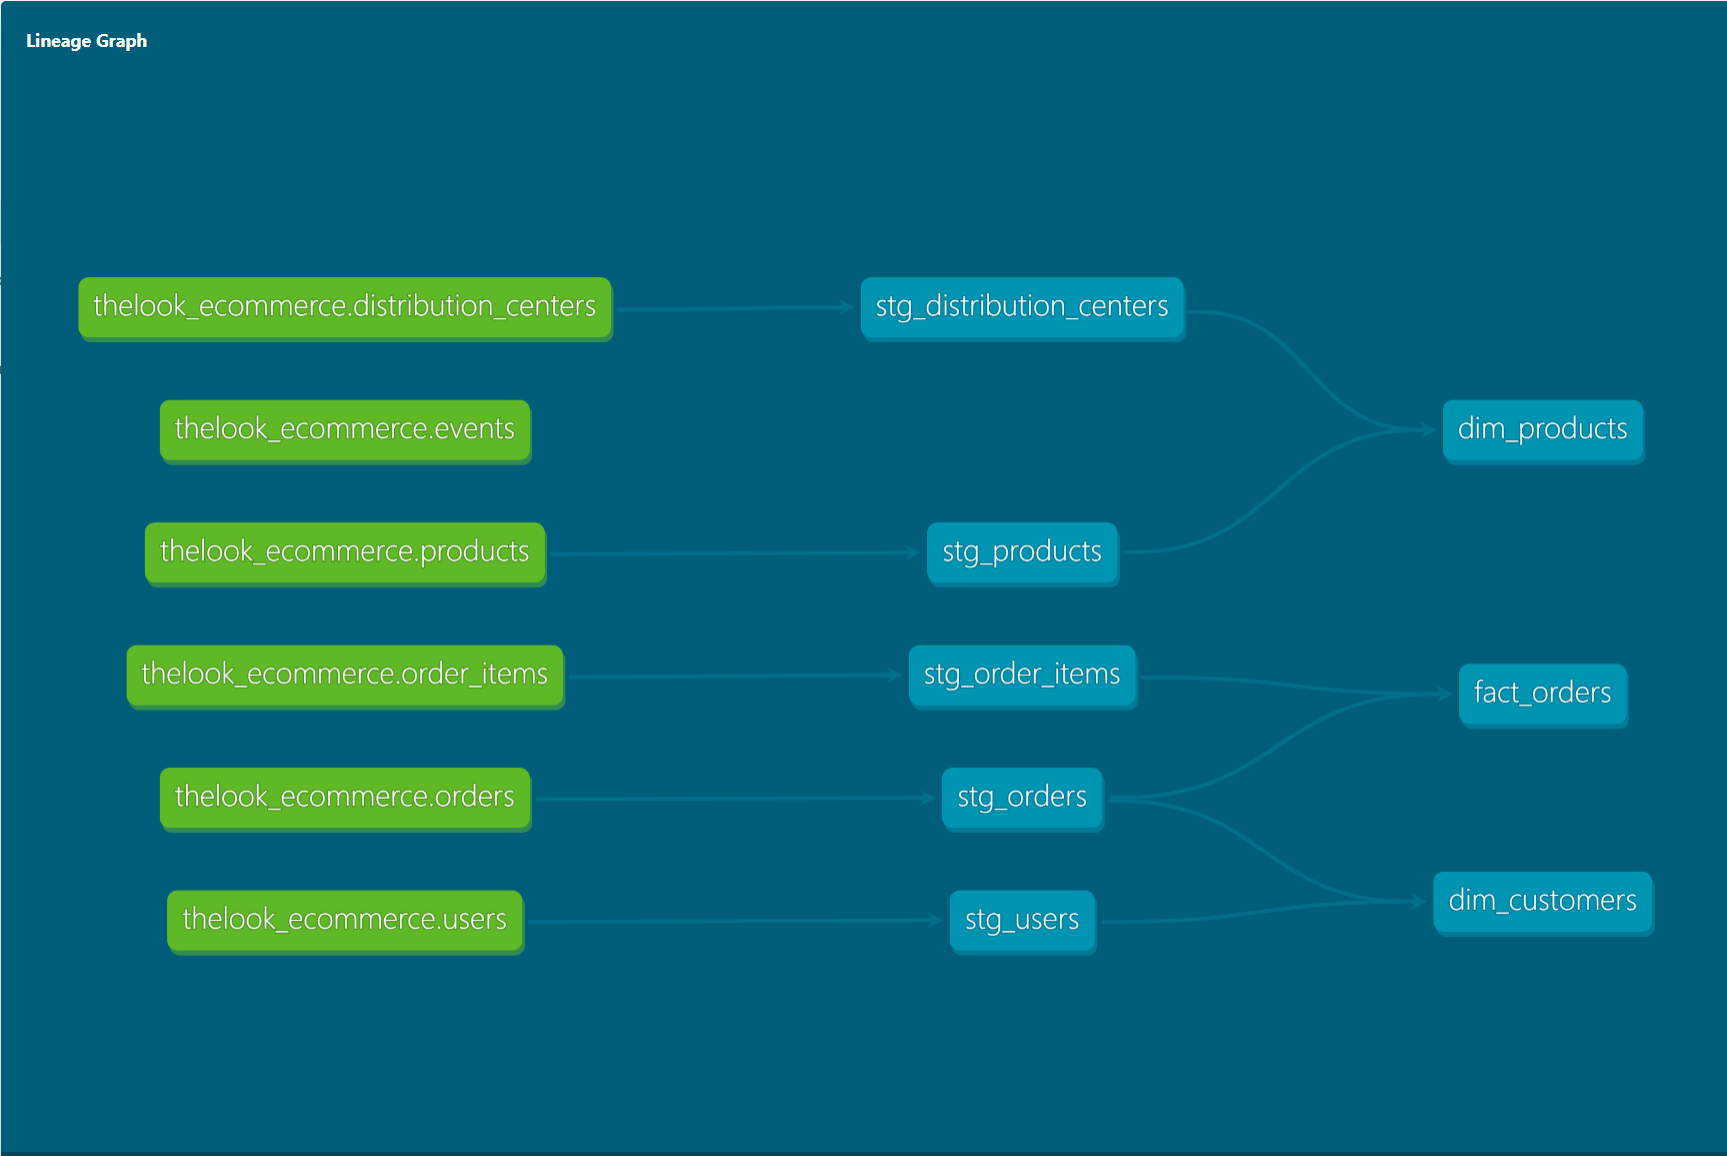
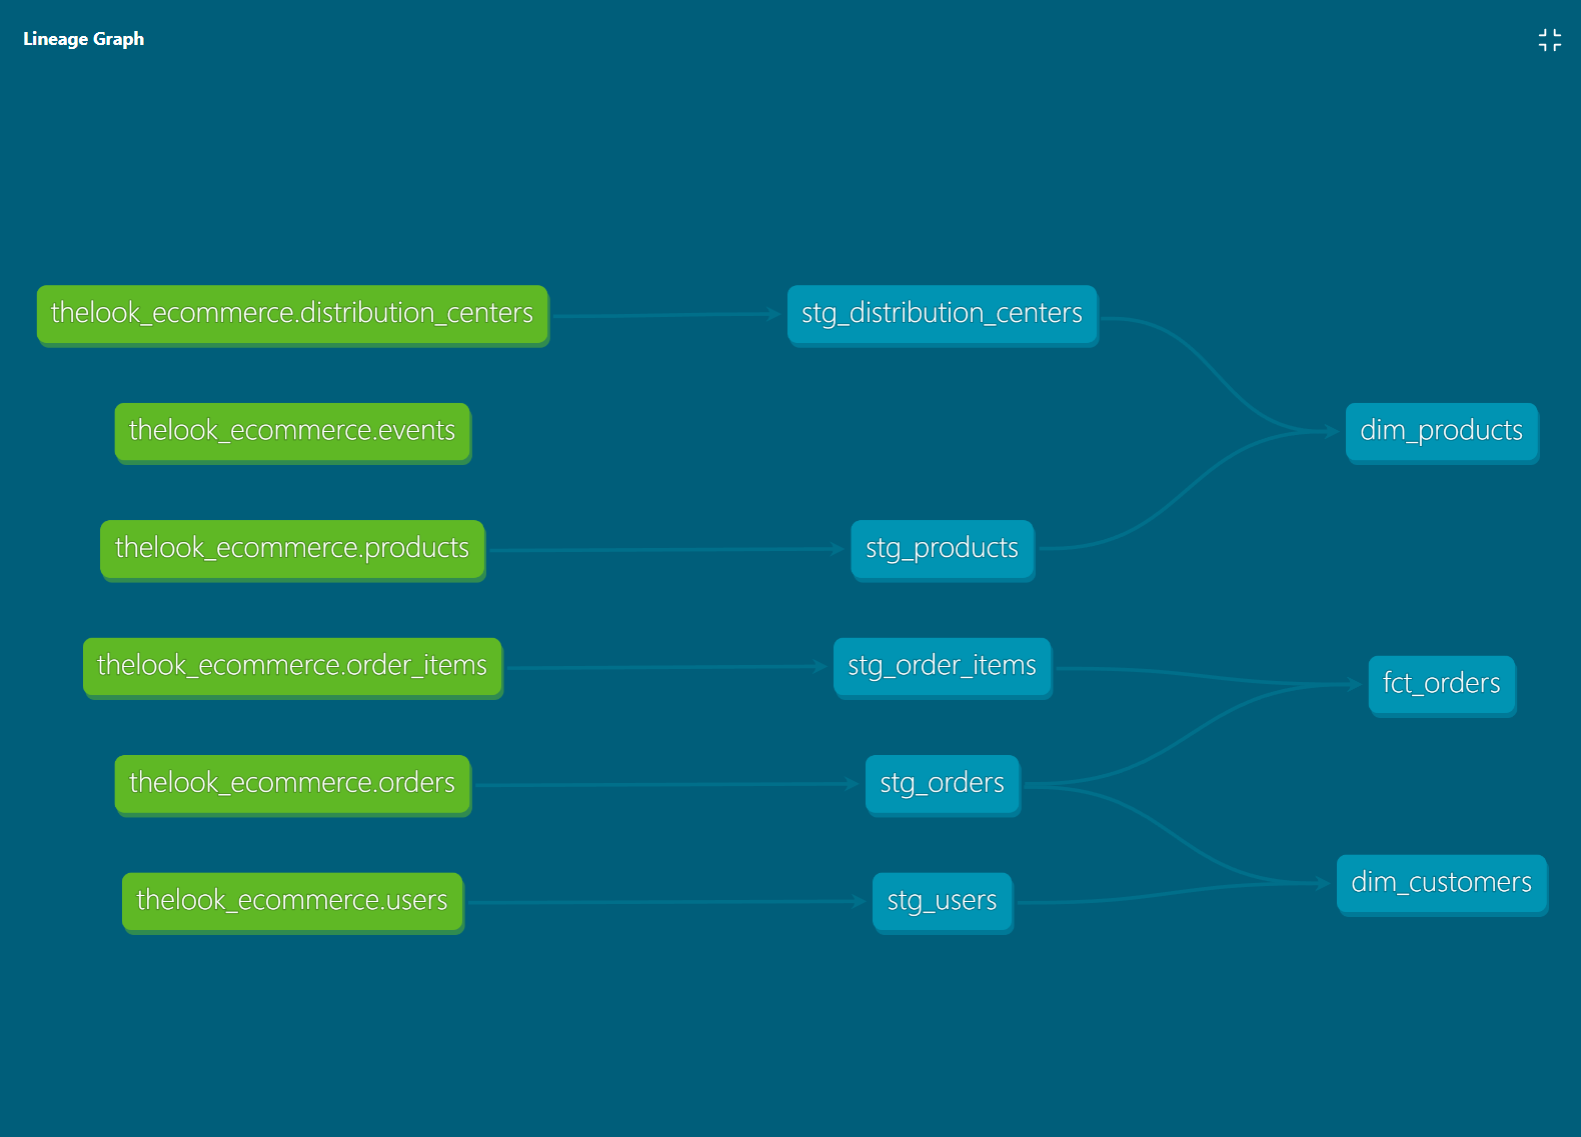
Fix fact model naming and update dbt test syntax; replace lineage graph with updated model naming

diff --git a/README.md b/README.md
@@ -1,40 +1,39 @@
-# dbt E-Commerce Analytics 
+# dbt E-Commerce Analytics
 
-A lightweight dbt project transforming Google's public `thelook_ecommerce` dataset into a staging → star schema analytics layer on BigQuery. 
+A lightweight dbt project transforming Google's public `thelook_ecommerce` dataset into a staging → star schema analytics layer on BigQuery.
 
-## Stack 
-- **Transformation:** dbt Core (v1 engine) 
-- **Warehouse:** Google BigQuery (Sandbox, free tier) 
-- **Source data:** `bigquery-public-data.thelook_ecommerce` 
-- **Version control:** GitHub 
+## Stack
+- **Transformation:** dbt Core (v1 engine)
+- **Warehouse:** Google BigQuery (Sandbox, free tier)
+- **Source data:** `bigquery-public-data.thelook_ecommerce`
+- **Version control:** GitHub
 
-## Architecture 
+## Architecture
 
-Staging (views) → Marts (tables, star schema) 
+Staging (views) → Marts (tables, star schema)
 
-- **Staging:** 1:1 cleaned views of source tables (renamed/typed columns only, no business logic) 
-- **Marts:** 
-    - `dim_customers` - customer profile + lifetime order metrics 
-    - `dim_products` - product catalog + margin + distribution center 
-    - `fact_orders` - order line-item grain fact table 
+- **Staging:** 1:1 cleaned views of source tables (renamed/typed columns only, no business logic)
+- **Marts:**
+    - `dim_customers` - customer profile + lifetime order metrics
+    - `dim_products` - product catalog + margin + distribution center
+    - `fct_orders` - order line-item grain fact table
 
-![DAG Lineage](docs/dag_screenshot.png) 
+![DAG Lineage](docs/dag_screenshot.png)
 
-## Setup 
+## Setup
 
-1. Clone the repo 
-2. Create a virtual environment and install dependencies: 
-    ```powershell 
-    python -m venv venv 
+1. Clone the repo
+2. Create a virtual environment and install dependencies:
+    ```powershell
+    python -m venv venv
     .\venv\Scripts\Activate.ps1
     pip install dbt-core dbt-bigquery
     ```
-3. Configure `~/.dbt/profiles.yml` with your own GCP service account 
-4. Run: 
-    ```powershell 
-    dbt debug 
-    dbt run 
-    dbt test 
-    dbt docs generate && dbt docs serve 
+3. Configure `~/.dbt/profiles.yml` with your own GCP service account
+4. Run:
+    ```powershell
+    dbt debug
+    dbt run
+    dbt test
+    dbt docs generate && dbt docs serve
     ```
-
